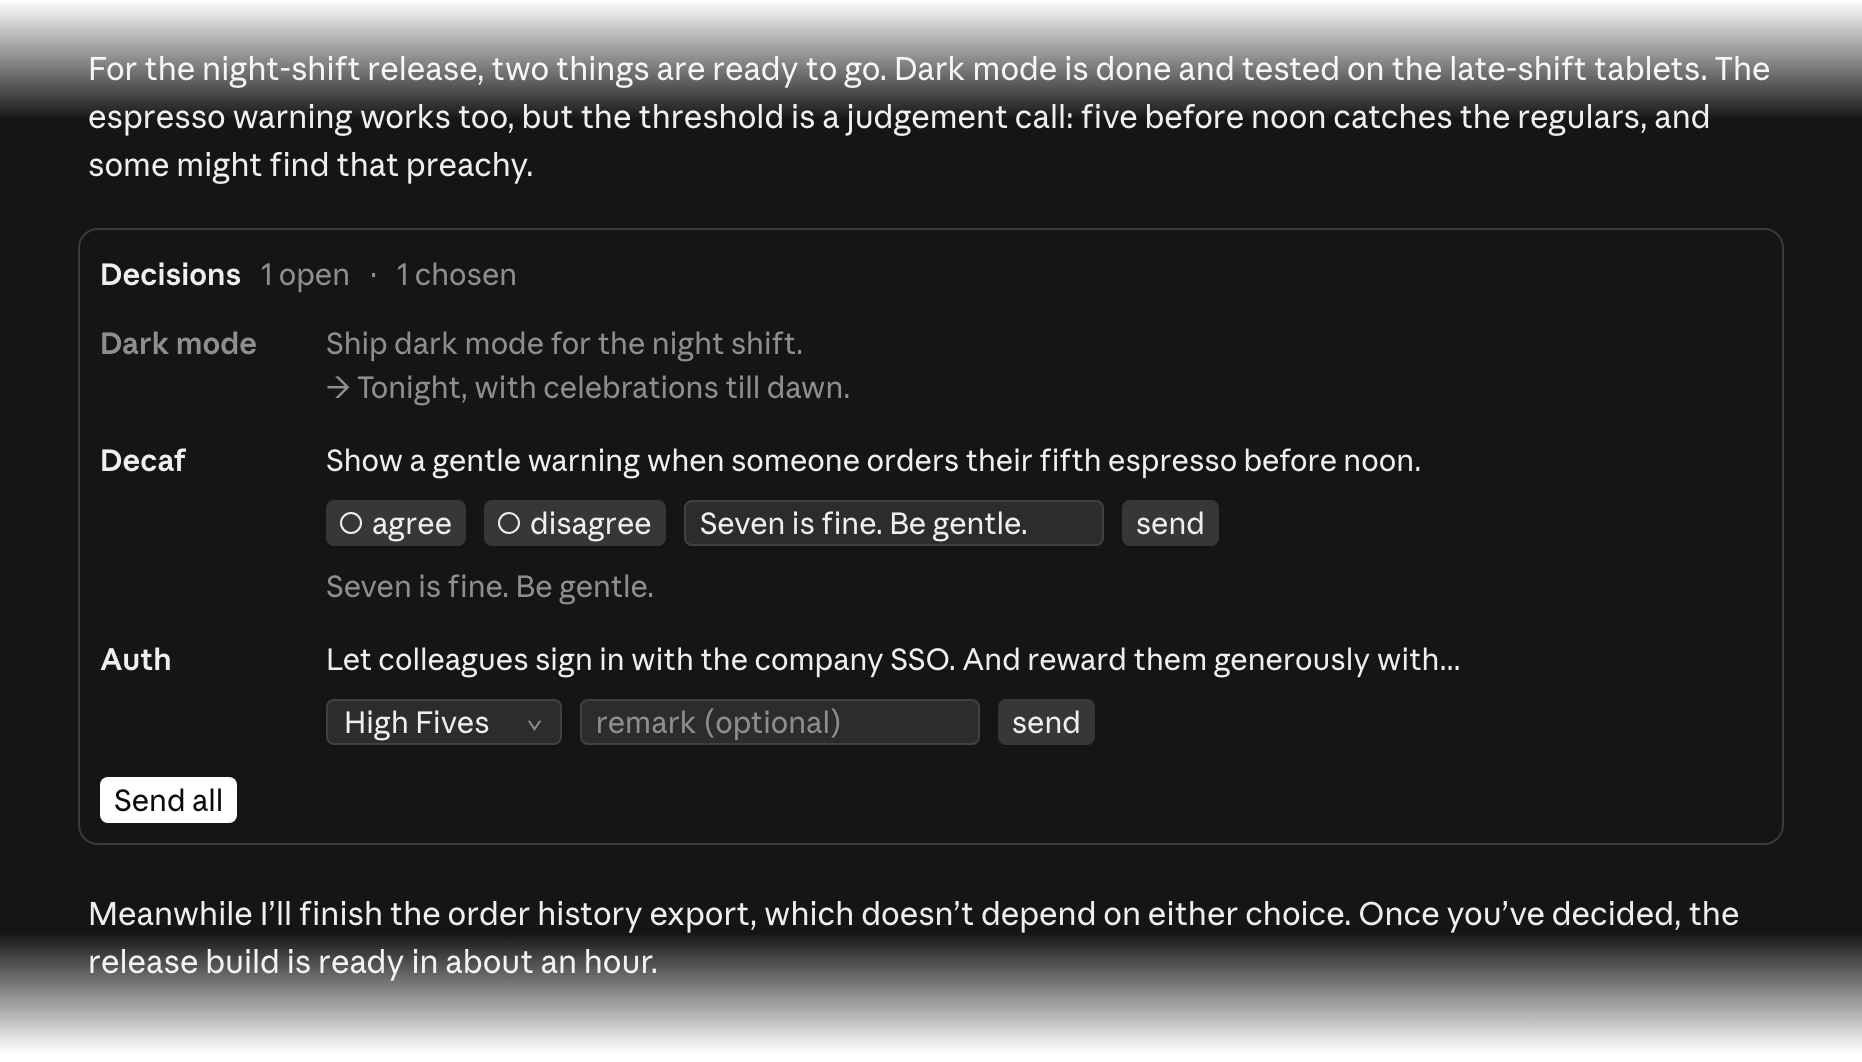
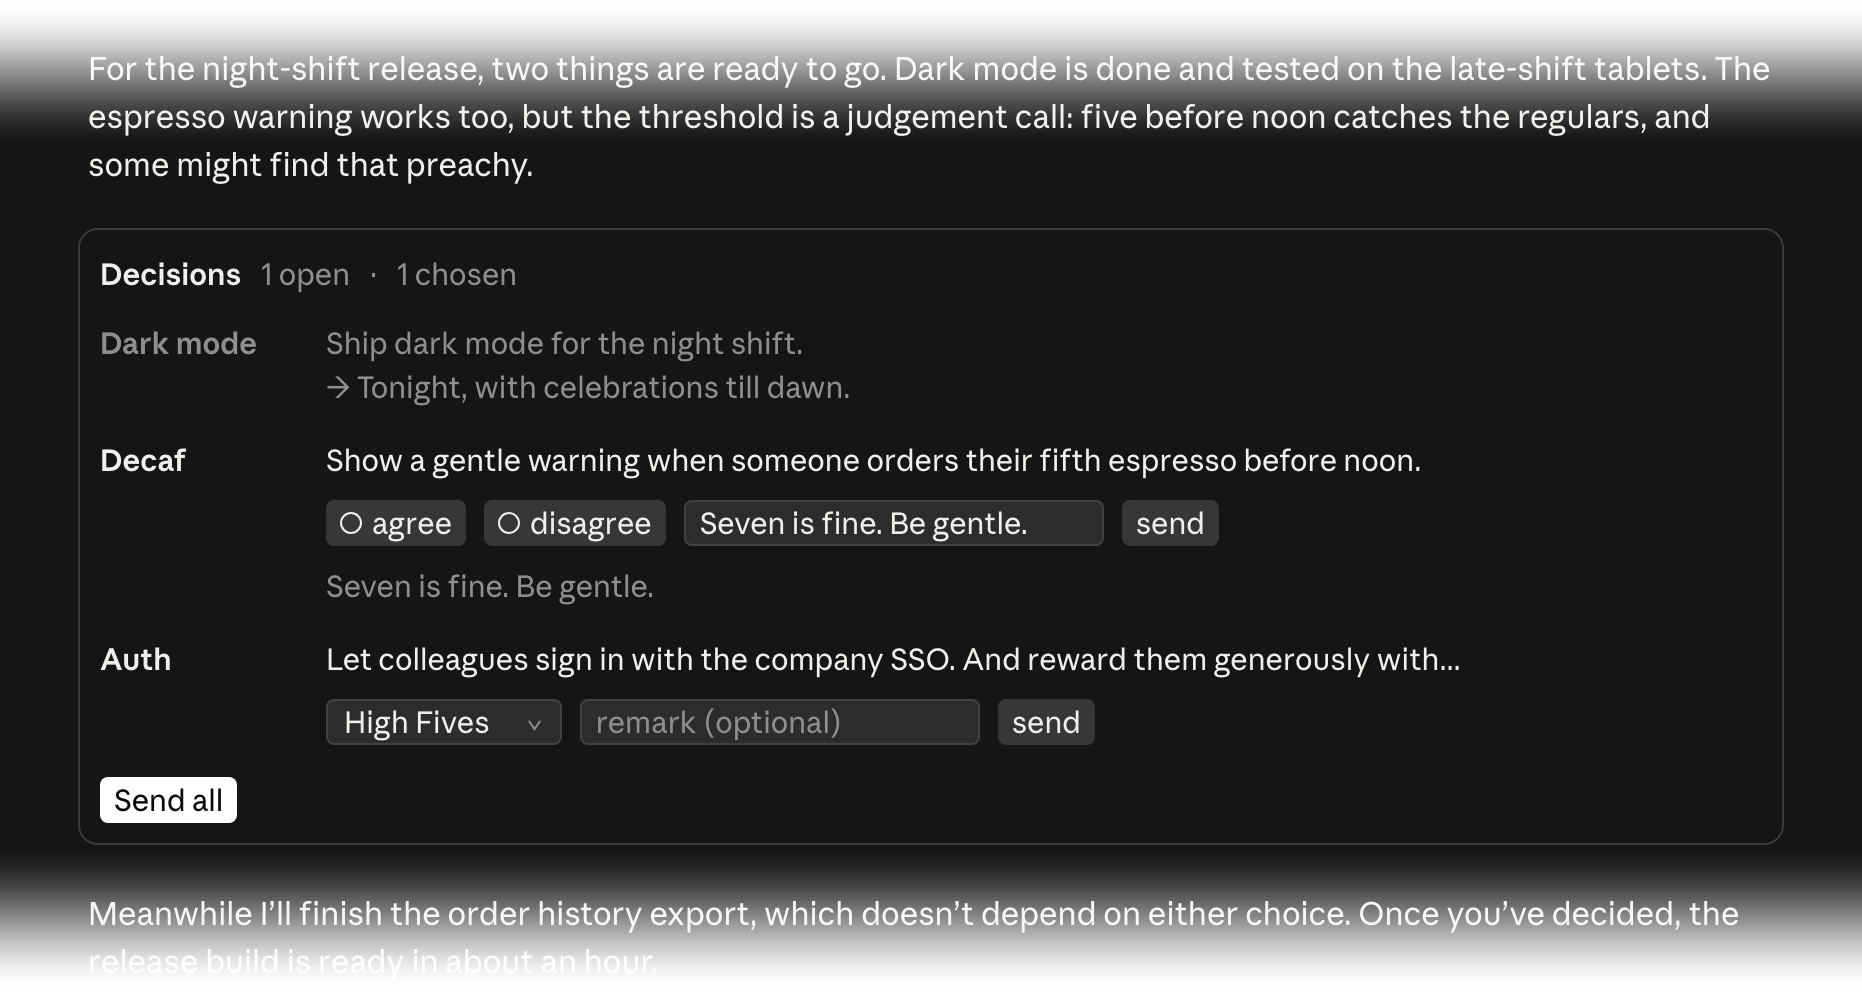
README: the chat box screenshot fades to transparent again
The box screenshot faded into white, which shows as a white band on
GitHub's dark theme. Like the screenshot before it, it now fades out
through its alpha channel, so it blends into either theme. render.sh
applies the fade for a page with data-fade on its body.

diff --git a/docs/screenshots/style.css b/docs/screenshots/style.css
@@ -111,11 +111,7 @@ html, body {
 .box .heading .title::before { content: none; }
 .closed .label, .closed .proposal, .closed .below { color: var(--dim); }
 .closed .below { margin-top: 2px; }
-/* The chat fades out above and below, as a cut-out of a longer conversation */
-.chat { position: relative; }
-.chat::before, .chat::after { content: ""; position: absolute; left: 0; right: 0; height: 60px; pointer-events: none; }
-.chat::before { top: 0; background: linear-gradient(#fff, rgba(21, 21, 21, 0)); }
-.chat::after { bottom: 0; background: linear-gradient(rgba(21, 21, 21, 0), #fff); }
+/* The chat fades out to transparent above and below: data-fade on <body>, applied by render.sh. */
 
 /* A menu (Select) opened: the list of answers below it, the current one checked */
 .menu-wrap { position: relative; display: inline-flex; }

diff --git a/docs/screenshots/box.html b/docs/screenshots/box.html
@@ -4,9 +4,9 @@
 <meta charset="utf-8">
 <title>Decision box in the chat</title>
 <link rel="stylesheet" href="style.css">
-<style>html, body { width: 931px; } html, body { background: #fff; }</style>
+<style>html, body { width: 931px; }</style>
 </head>
-<body>
+<body data-fade="75">
 <div id="shot" class="chat">
   <p>For the night-shift release, two things are ready to go. Dark mode is done and tested on the late-shift tablets. The espresso warning works too, but the threshold is a judgement call: five before noon catches the regulars, and some might find that preachy.</p>
 
